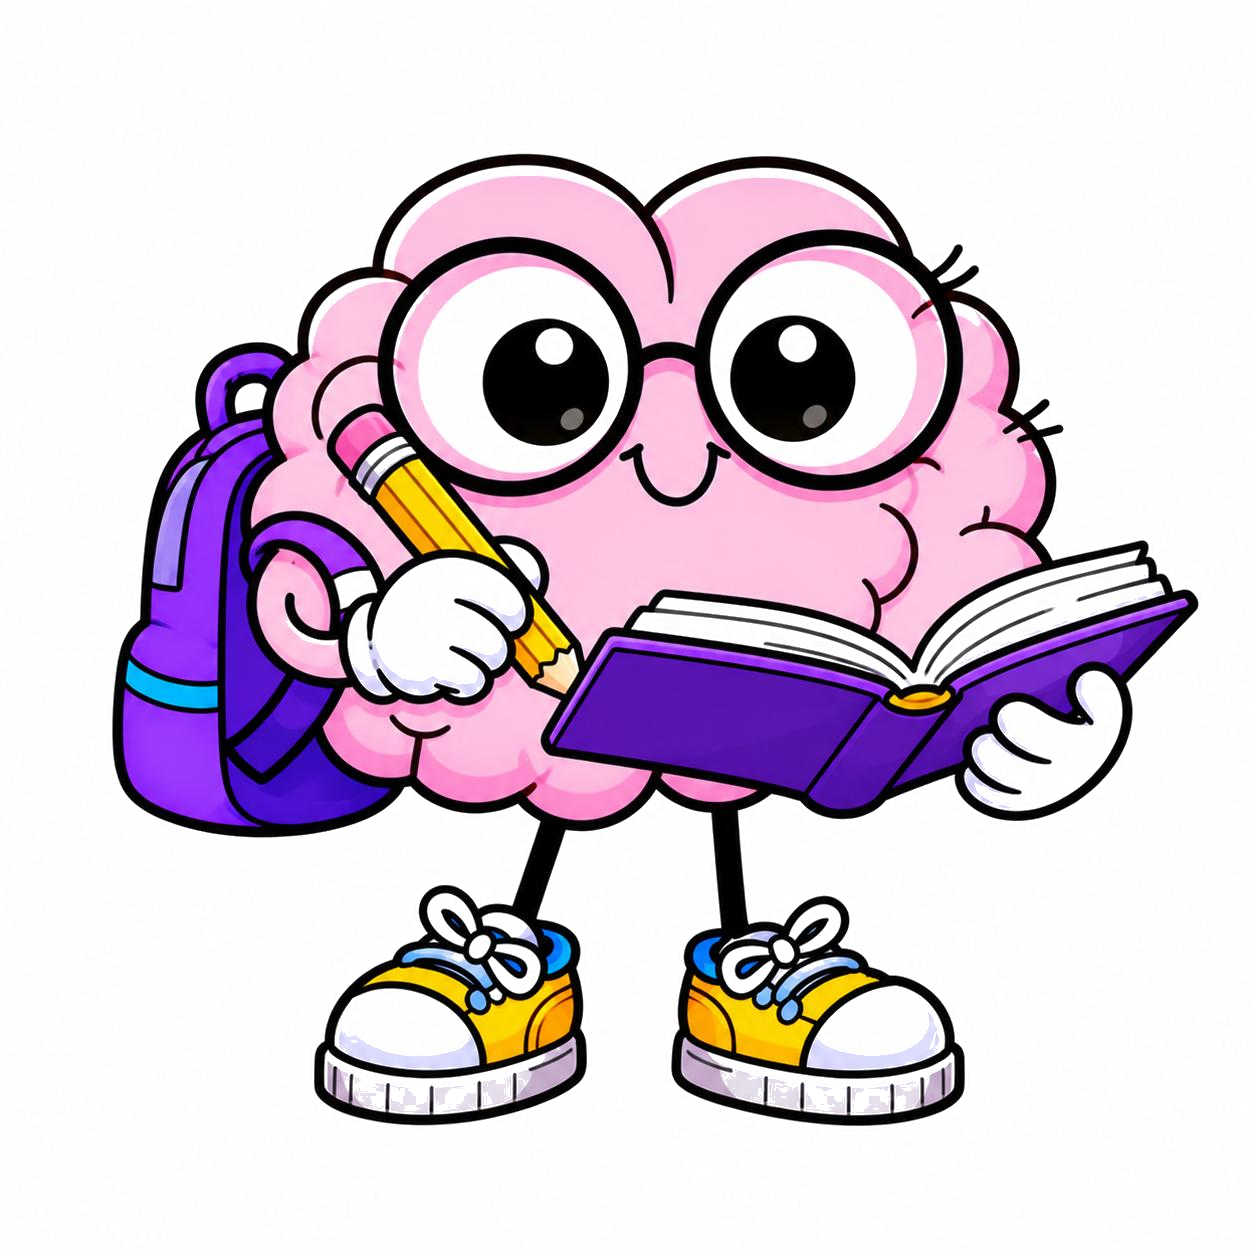
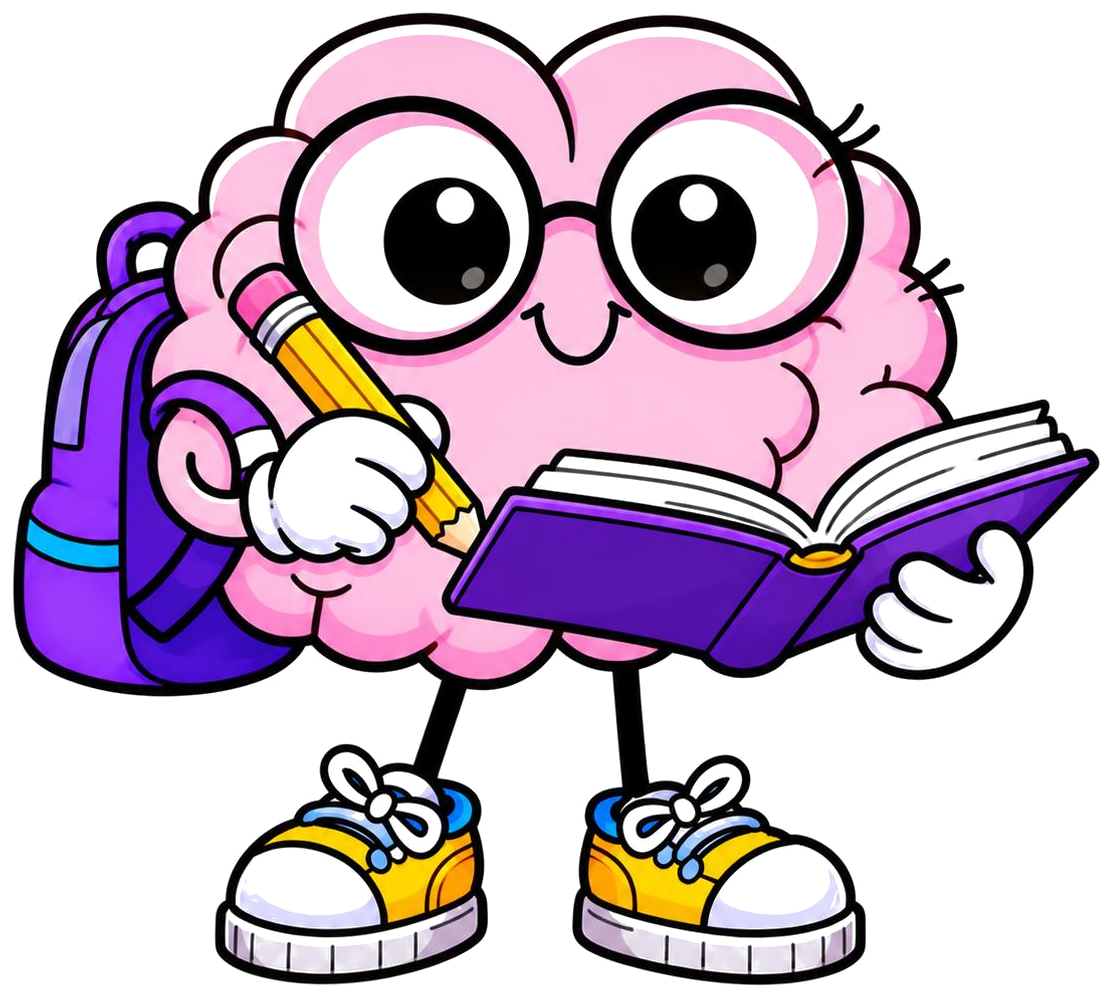
cd

diff --git a/components/Footer.tsx b/components/Footer.tsx
@@ -1,6 +1,5 @@
 import { Instagram, MapPin, MessageCircle } from "lucide-react";
 import { site } from "@/lib/site-data";
-import Logo from "./Logo";
 
 export default function Footer() {
   return (
@@ -8,7 +7,9 @@ export default function Footer() {
       <div className="absolute -left-16 -top-16 h-52 w-52 rounded-full bg-fucsia/30 blur-3xl" />
       <div className="container-page relative grid gap-8 md:grid-cols-[1.2fr_0.8fr_1fr]">
         <div>
-          <Logo compact />
+          <div className="inline-flex rounded-full bg-white p-2 shadow-soft">
+            <img src={site.logo} alt="Logo Cerebritos" className="h-20 w-20 rounded-full object-contain sm:h-24 sm:w-24" />
+          </div>
           <p className="mt-5 max-w-md leading-7 text-white/75">Cerebritos, un espacio de apoyo educativo para acompañar a niños, adolescentes y familias con cercanía, creatividad y profesionalismo.</p>
         </div>
         <div>
